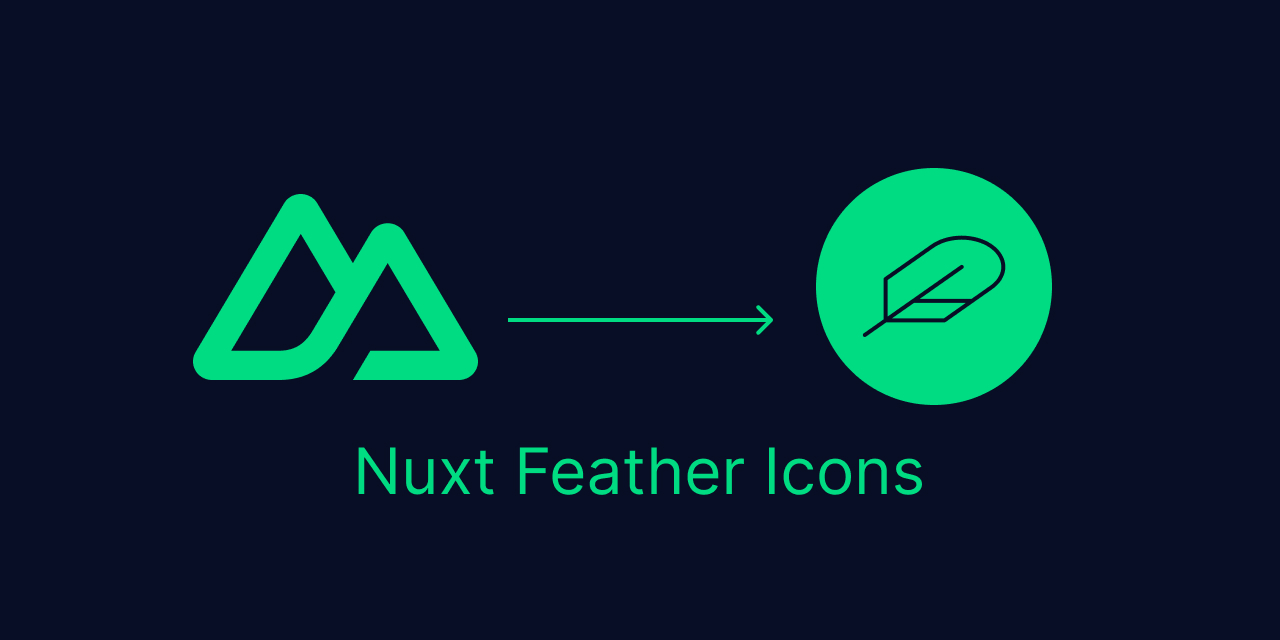
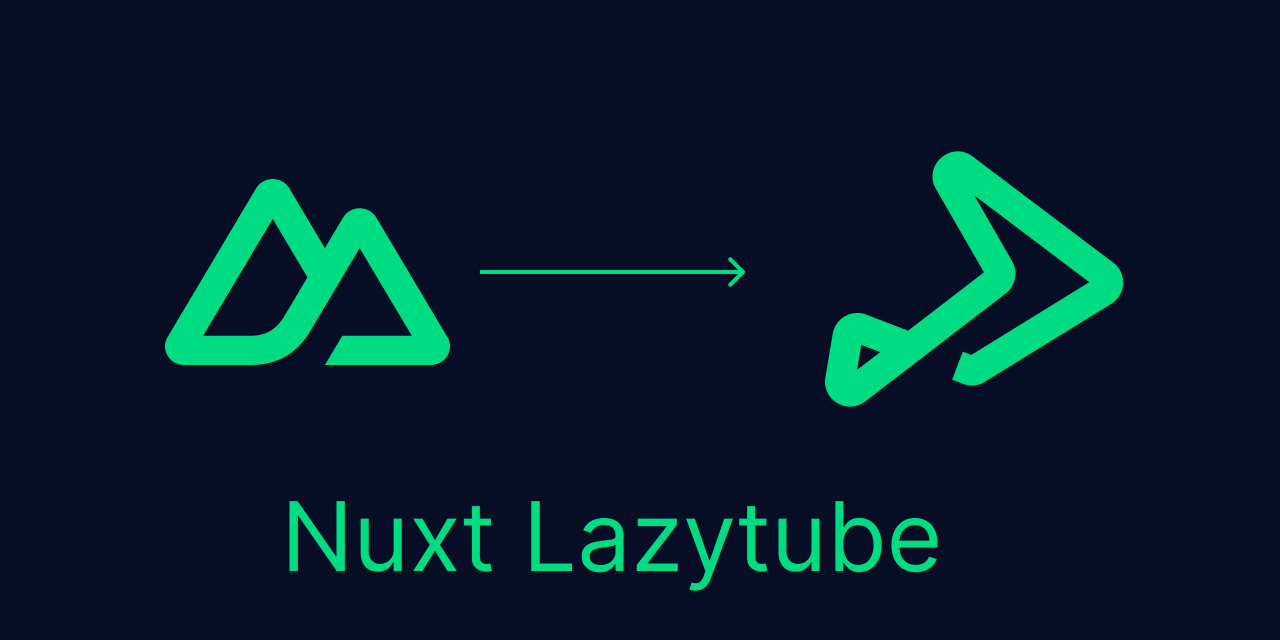
##nuxt-lazytube
- new logo

diff --git a/README.md b/README.md
@@ -1,6 +1,7 @@
 <div align="center">
 <img src=".github/nuxt-lazytube.svg" width="400">
-<p align="center">Nuxt Lazytube support for Nuxt 3</p>
+<h1 align="center">Nuxt Lazytube</h1>
+<p align="center">Support for Nuxt 3</p>
 </div>
 
 
